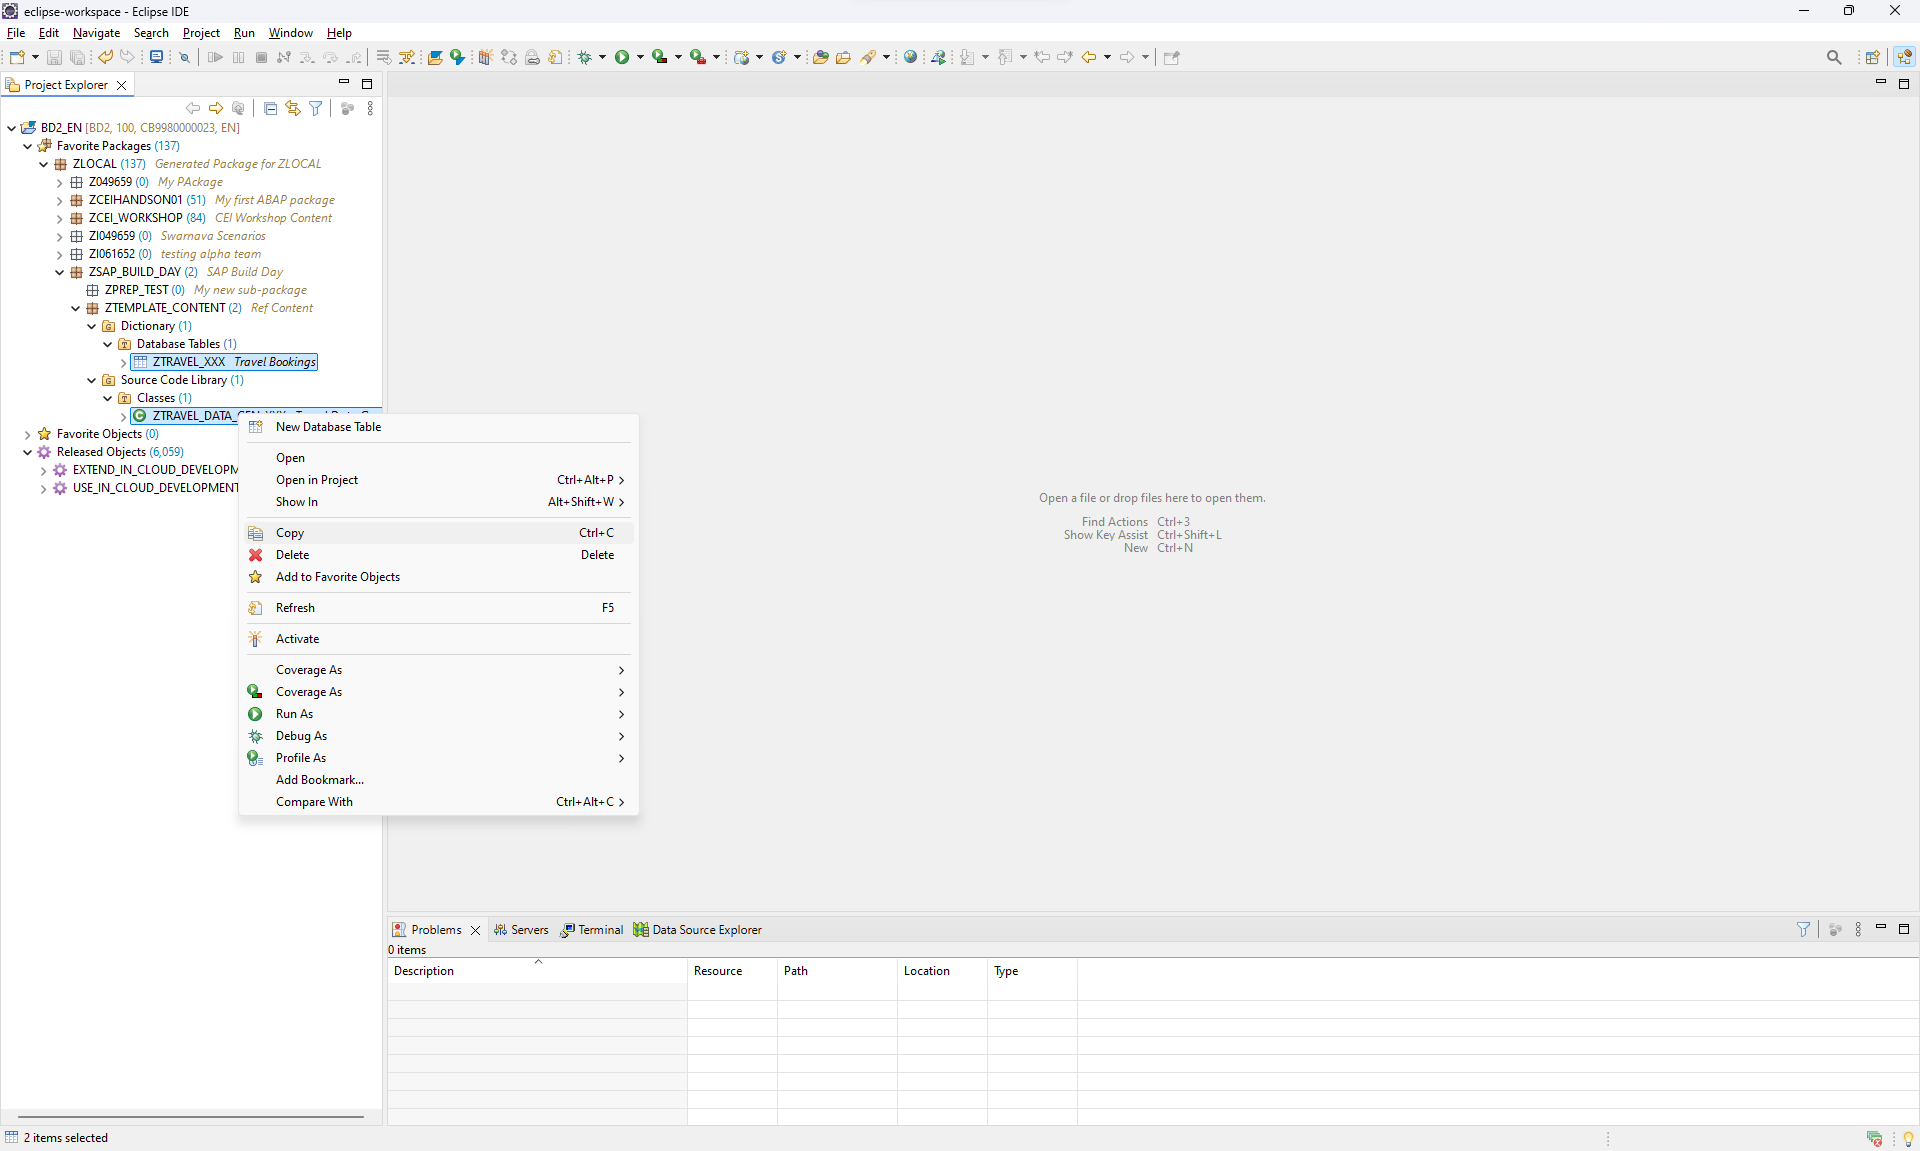
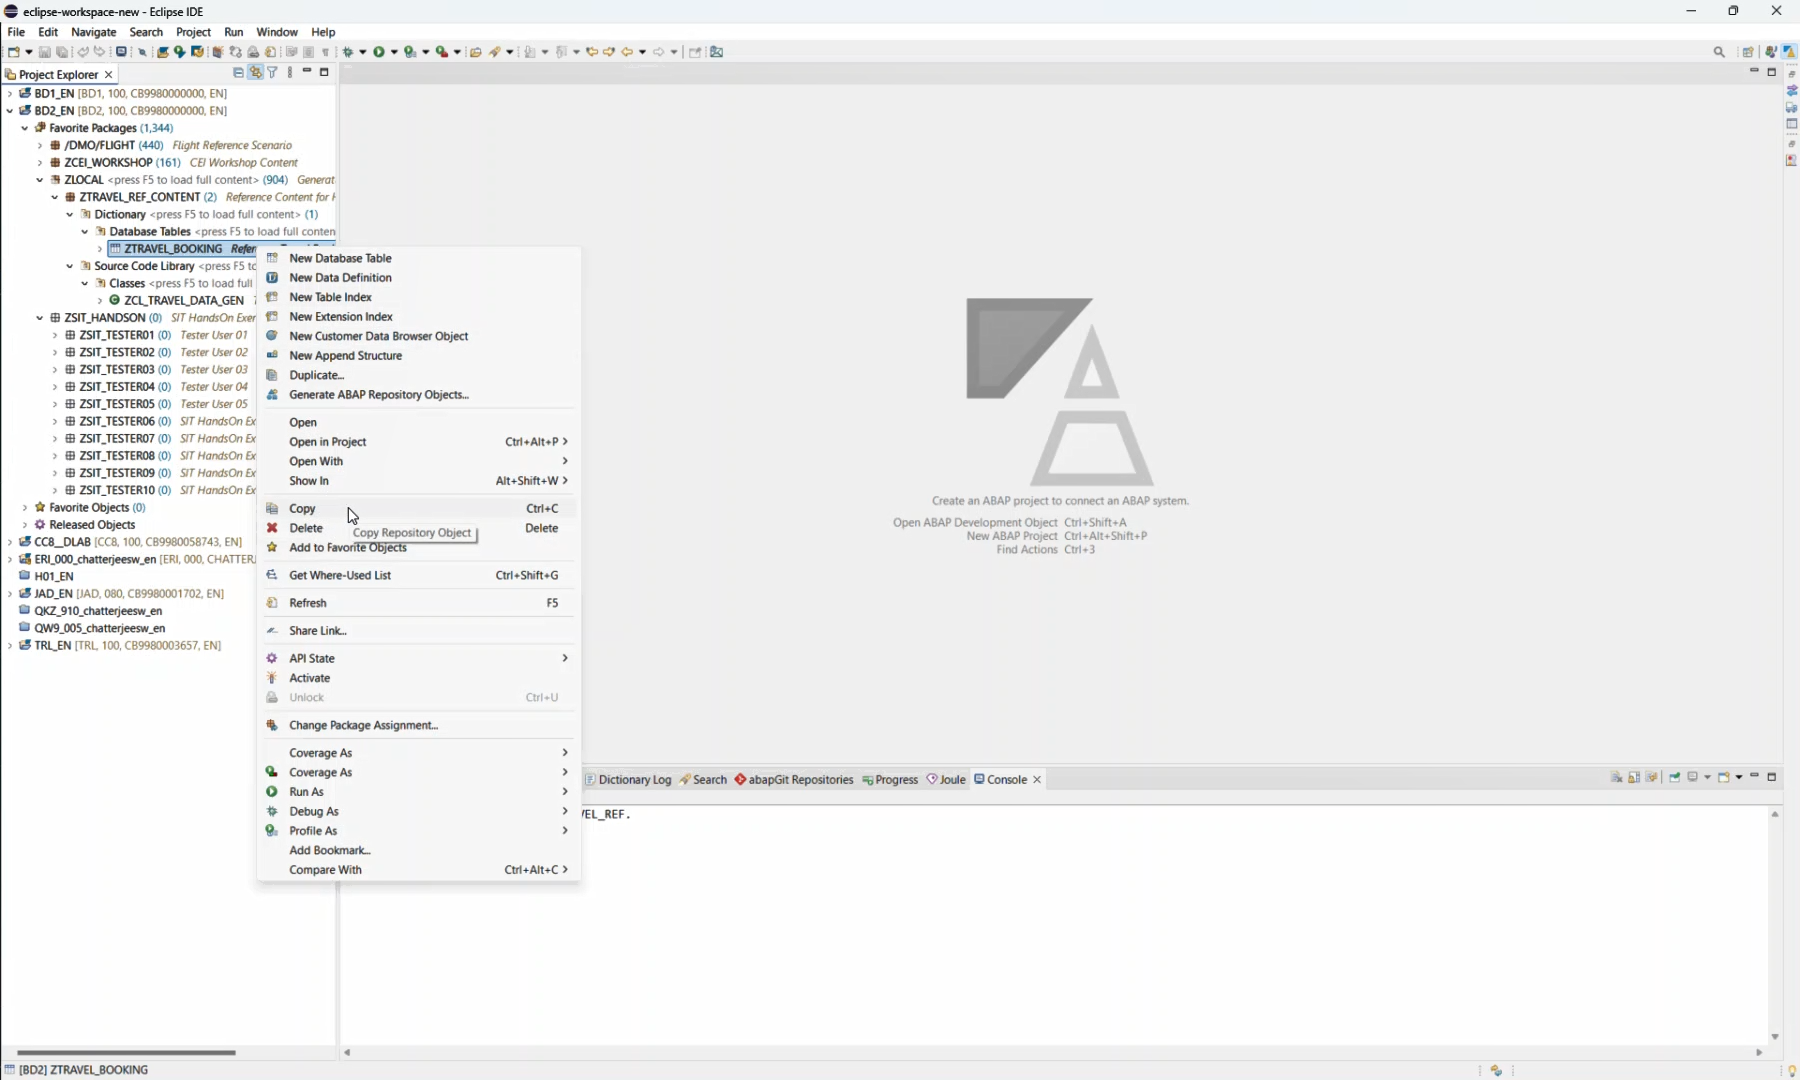
made changes to ref content for SIT

diff --git a/README.md b/README.md
@@ -114,7 +114,7 @@ Welcome to this hands-on session on integrating ABAP with SAP Build. This guide 
 
    ![image](./assets/project-15a.png)
 
-   iii. Expand the package **ZTEMPLATE_CONTENT** and copy the database table `ZTRAVEL_XXX` into your package. Remember to replace the `XXX` with a number assigned to your user to avoid conflicts.
+   iii. Expand the package **ZTRAVEL_REF_CONTENT** and copy the database table `ZTRAVEL_BOOKING` into your package. Remember to append the `X` with a number assigned to your user to avoid conflicts at the end of the table name.
 
    ![image](./assets/project-15b.png)
 
@@ -139,6 +139,10 @@ Welcome to this hands-on session on integrating ABAP with SAP Build. This guide 
    vi. Update the table name in the newly copied data generator class to point to the table you have created.
 
    ![image](./assets/project-16d.png)
+
+   vii. Activate the class and after activation execute.
+
+   ![image](./assets/project-16e.png)
 
 ### Exercise 2: Generating and Using Service Bindings
 
